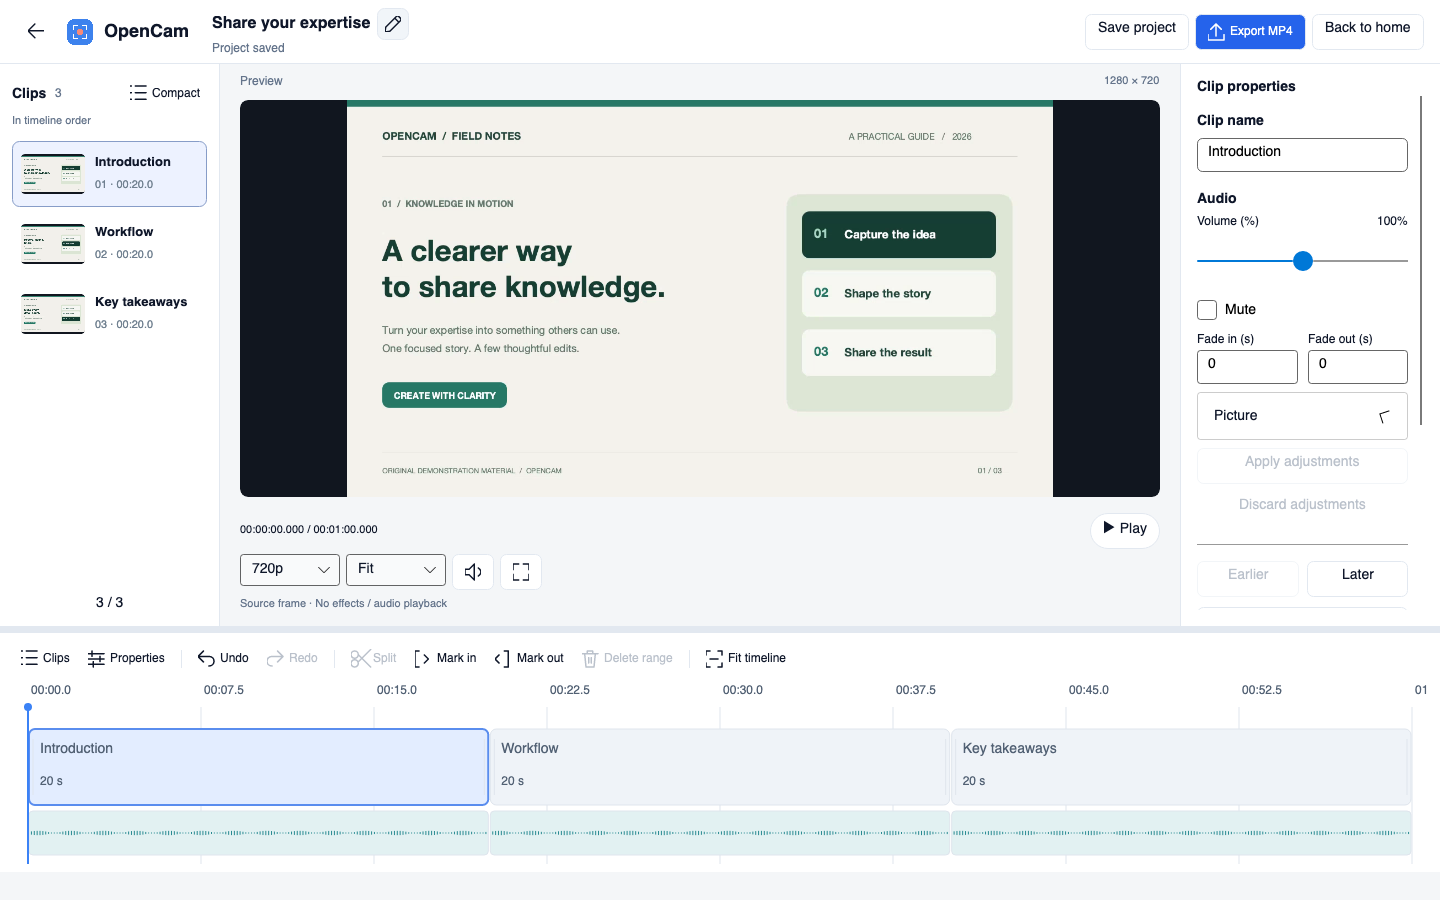
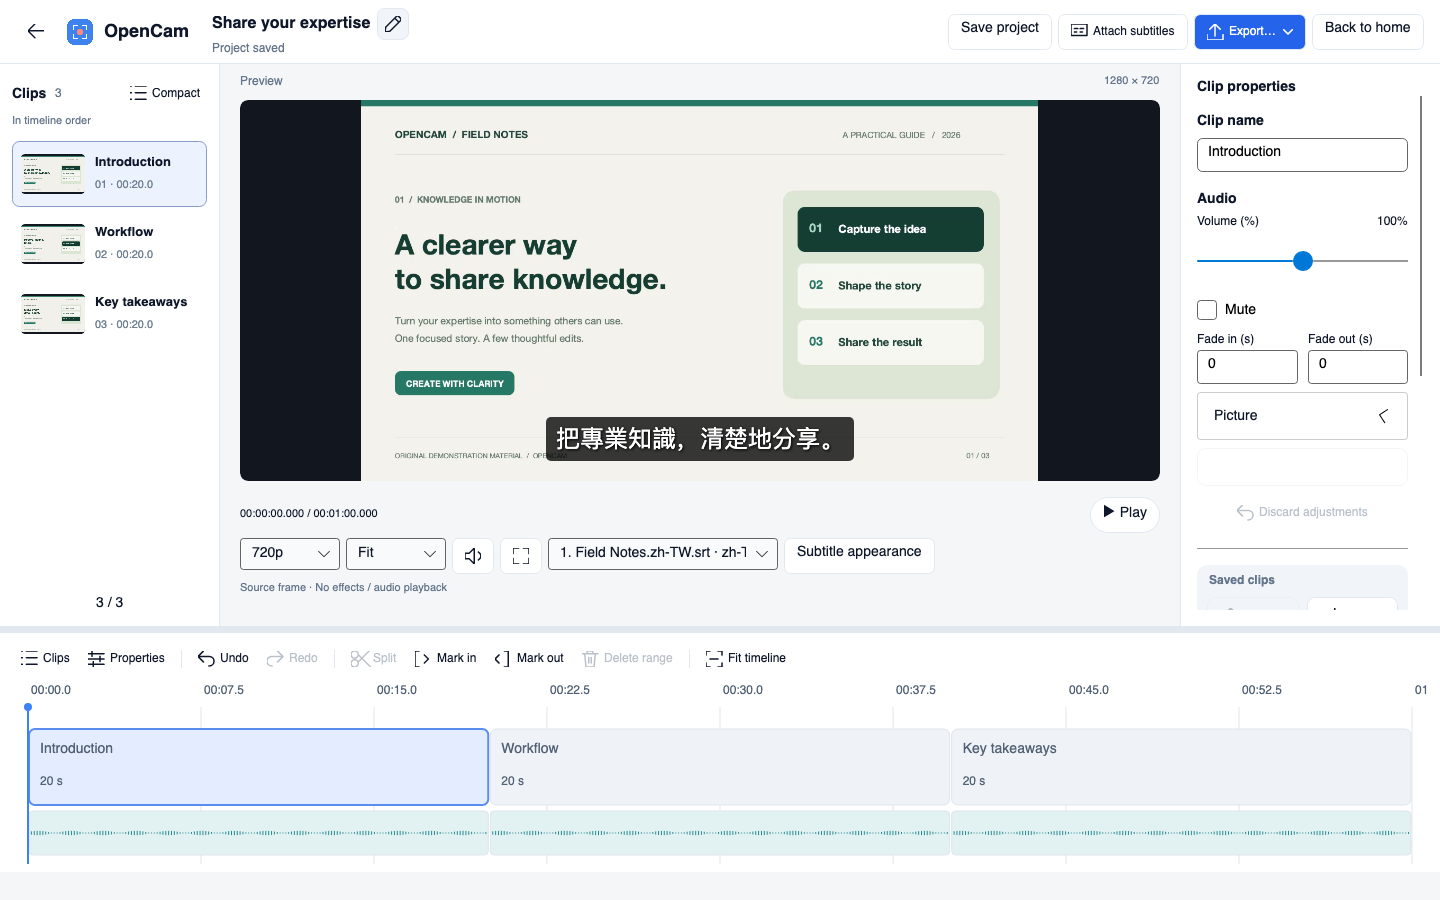
Release OpenCam 0.3.4 subtitles transcripts and refreshed documentation

diff --git a/tests/ScreenRecorder.Media.Tests/ProjectEditorChromeTests.cs b/tests/ScreenRecorder.Media.Tests/ProjectEditorChromeTests.cs
@@ -92,8 +92,10 @@ public sealed class ProjectEditorChromeTests
             var button = window.FindControl<Button>("ExportButton")!;
             var label = button.GetVisualDescendants().OfType<TextBlock>().Single(t => t.Text == vm.Strings["ProjectExportMenu"]);
             Assert.Equal(Avalonia.Media.Colors.White, Assert.IsAssignableFrom<Avalonia.Media.ISolidColorBrush>(label.Foreground).Color);
-            var icon = button.GetVisualDescendants().OfType<Path>().Single();
-            Assert.Equal(Avalonia.Media.Colors.White, Assert.IsAssignableFrom<Avalonia.Media.ISolidColorBrush>(icon.Stroke).Color);
+            var icons = button.GetVisualDescendants().OfType<Path>().ToArray();
+            Assert.NotEmpty(icons);
+            Assert.All(icons, icon => Assert.Equal(Avalonia.Media.Colors.White,
+                Assert.IsAssignableFrom<Avalonia.Media.ISolidColorBrush>(icon.Stroke).Color));
         }
         finally { await window.RequestCloseAsync(); }
     }

diff --git a/docs/releases/v0.3.4.md b/docs/releases/v0.3.4.md
@@ -1,0 +1,38 @@
+# OpenCam v0.3.4 — 多語字幕與逐字稿搜尋 / Multilingual captions and transcript search
+
+## 繁體中文
+
+- 編輯器新增「附加影片字幕」，選取或拖放 SRT／VTT，多語檔案以唯一名稱保存到專案內，同名不覆蓋。語言名稱依中英文介面顯示並附代碼，清單卡片單選預設字幕。
+- 字幕套用進編輯狀態／復原草稿，儲存專案才持久保存；替換與移除保留歷史資產供復原。取消匯入可能留下未引用資產，不冒險刪除復原需要的資料。
+- 一般／全螢幕預覽選擇語言或關閉字幕，大小、配色、背景透明度及位置即時調整；不改專案預設語言，不燒入 MP4。
+- 網頁維持 index.html、media.mp4、opencam-player.js 三檔案，加入預設開啟的多語 CC 控制與純文字字幕。語系選單只顯示名稱及代碼，不帶檔名。
+- 右側「章節／逐字稿」分頁，搜尋字幕、關鍵字標示、點擊跳轉、可選跟隨播放。點擊逐字稿保持原本播放／暫停狀態；搜尋時暫停自動跟隨，固定高度內捲動、分批顯示大量字幕。
+- 裁剪、重排或續錄改變最終時間軸時，需確認字幕同步；網頁輸出可附加、不附加或取消，不自動改寫字幕時間。
+- 命名視窗按鈕置中、輸出箭頭縮小置中、字幕卡片美化與語言完整顯示；網頁章節列緊湊，編號框與內容高度對齊，標題摘要不再重複 OpenCam。
+- README、GitHub Pages 與中英文說明更新，重新產生首頁／設定／編輯器／字幕視窗介面展示，使用自製教學影片與字幕，並非實機驗收證據。無新增應用第三方依賴。
+
+### 相容性與限制
+
+- **保存附加字幕使用專案格式4，v0.3.3及以前不能開啟，請先備份整個專案。** 無字幕專案不因此自動升版。網頁資料格式仍為 opencam.web-player/schemaVersion1，可選字幕資料位於同一 JS 內。
+- 支援 UTF-8及含 BOM 的 UTF-16；最多32軌，每檔10 MiB／100,000則字幕／每則10,000字，網頁解析字幕合計64 MiB上限。純文字呈現，不執行字幕 HTML／樣式指令。匯入內容／來源校驗失敗會拒絕使用。
+- MP4不燒錄字幕；原生畫中畫字幕不在支援範圍。本機瀏覽器保存偏好受儲存政策限制，不保證搬移資料夾／跨瀏覽器後保留。
+- 真實瀏覽器離線／觸控／全螢幕、Windows原生錄影／編輯影音／輸出、長時間A/V、macOS視覺、實際磁碟耗盡及完整實體Release Gate未全部完成。Windows心跳重試／快速輸出偶發回退不能宣稱根治。
+- 安裝包無可信發行者簽章，macOS未公證；Windows FFmpeg完整對應原始碼核對仍待完成。依使用者授權發布，不表示全部可靠性、安全、授權或實機驗收通過。
+
+## English
+
+- Attach SRT/VTT by selection or drop. Unique project-owned copies preserve same-name multilingual assets. Localized language labels include codes; choose the default on a subtitle card.
+- Apply edits drafts; explicit Save persists. Replacement/removal retains assets for undo/recovery; canceled import may leave an unreferenced asset.
+- Preview/fullscreen language/off, size, theme, opacity and position controls are view-only. MP4 has no caption burn-in.
+- Three-file Web packages add default-on multilingual CC controls and safe plain-text cues. Language menus omit filenames.
+- Chapter/transcript tabs offer full-text search, highlighting, seek preserving play/pause, optional following and bounded scrolling with batched rows. Searching suspends automatic following.
+- Timeline changes require subtitle-sync confirmation, omission or cancellation before Web export; cues are not retimed automatically.
+- Center naming-dialog actions, shrink/center export chevrons, improve subtitle cards and compact chapter badges. Refresh bilingual README, Pages and genuine UI renders using original authored tutorial media; no new application dependencies.
+
+### Compatibility and limits
+
+- **Saved subtitles require project format4; v0.3.3 and earlier cannot open them. Back up complete projects first.** Projects without captions retain their schema. Web format remains opencam.web-player/schemaVersion1 with optional caption data in the existing JS.
+- UTF-8/BOM-marked UTF-16;32 tracks maximum,10 MiB/100,000 cues/10,000 characters per cue;64 MiB aggregate parsed Web cues. Render plain text, not executable HTML/styles. Changed/invalid imported assets fail verification.
+- No MP4 burn-in or native PiP captions. Browser storage policies may prevent persistent preferences or carrying them across folder moves/browsers.
+- Real-browser offline/touch/fullscreen, native Windows recording/editor A/V/export, long A/V sync, macOS visuals, physical disk exhaustion and the full physical Release Gate remain incomplete. Intermittent Windows heartbeat/fast-export fallback issues are not claimed resolved.
+- No trusted publisher signing/macOS notarization. Complete corresponding-source verification for Windows FFmpeg remains pending. Publication is user-authorized and does not establish all reliability, security, licensing or device acceptance.

diff --git a/docs/USER_GUIDE.en-US.md b/docs/USER_GUIDE.en-US.md
@@ -1,6 +1,6 @@
 # OpenCam Complete User Guide (English)
 
-Unreleased multilingual captions: attach SRT/VTT files by selection or drag-and-drop in the editor. Unique project-owned copies avoid filename collisions. Choose languages and the default track, apply, then save explicitly. Preview and Web CC controls offer language, size and appearance settings; MP4 captions are not burned in. Timeline edits require a synchronization decision. **Subtitle projects use format4; released0.3.3 cannot open them. Back up first.** See [subtitle limits](WEB_PLAYER_EXPORT.md).
+v0.3.4 multilingual captions: attach SRT/VTT by selection or drop; unique project-owned copies avoid collisions. Language names follow the application language and include codes. Select the default on a subtitle card, apply, then save explicitly. Preview/fullscreen and Web CC controls offer language, size, theme, opacity and position; no MP4 burn-in. The Web sidebar offers searchable transcripts, highlighting, seek preserving play/pause, optional follow mode and bounded scrolling. Timeline edits require synchronization confirmation. **Subtitle projects use format4; released0.3.3 cannot open them. Back up first.** See [subtitle limits](https://github.com/kaoshou/OpenCam/blob/master/docs/WEB_PLAYER_EXPORT.md).
 
 ## New in v0.2.5: experimental Windows capture
 
@@ -12,7 +12,7 @@ Change capture mode only while idle, not while paused. Existing audio/cursor con
 
 OpenCam lets you record, edit, and resume recording. It writes MKV sources, retains them alongside a reopenable editing project, and exports MP4 when needed. Crash Recovery can attempt to preserve successfully written recordings; project recovery drafts protect interrupted unsaved edits.
 
-> This guide covers OpenCam v0.3.3, not a claim of completed acceptance. Windows native recording, editor audiovisual preview, export, and long A/V sync acceptance remain pending. Complete corresponding-source verification for Windows FFmpeg also remains pending, and packages are unsigned. Use disposable media; see the [release notes and limitations](https://github.com/kaoshou/OpenCam/blob/master/docs/releases/v0.3.3.md).
+> This guide covers OpenCam v0.3.4, not a claim of completed acceptance. Windows native recording, editor audiovisual preview, export, and long A/V sync acceptance remain pending. Complete corresponding-source verification for Windows FFmpeg also remains pending, and packages are unsigned. Use disposable media; see the [release notes and limitations](https://github.com/kaoshou/OpenCam/blob/master/docs/releases/v0.3.4.md).
 
 v0.3.3 replaces manual export with an **Export…** menu offering MP4 video or Web player. MP4 accepts a filename; Web player creates a unique folder containing index.html, media.mp4 and opencam-player.js. Chapters follow saved clips and show start times and durations in a scrollable index. Overlay controls provide seeking, volume, speed, wide-screen and fullscreen. Move the complete folder together and use an H.264/AAC-capable browser. See [the web export format](https://github.com/kaoshou/OpenCam/blob/master/docs/WEB_PLAYER_EXPORT.md).
 
@@ -39,11 +39,12 @@ See the [README](../README.md) for Windows portable testing instructions. Start 
 - Explicit Save commits the editing version. A recovery draft protects interrupted edits; it is not a saved version or an updated MP4. Switching/closing with unsaved changes offers Save, Discard or Cancel. Reopening a recoverable draft offers a restore decision.
 - Resolve unsaved changes when prompted before manual export. If the same content has a verified existing output, choose Open Existing, Export Again or Cancel. Export has progress and cancellation controls; cancellation/failure preserves source media.
 
-These are offline renders of the current v0.3.0 UI with illustrative state and an authored demonstration video in the editor, not device-recording acceptance evidence. Select an image for full size.
+These are offline renders of the current v0.3.4 UI with illustrative state and an authored demonstration video/subtitles in the editor, not device-recording acceptance evidence. Select an image for full size.
 
 [![Recording home](images/preview_main_enus.png)](images/preview_main_enus.png)
 [![Preferences](images/preview_settings_enus.png)](images/preview_settings_enus.png)
 [![Recording editor](images/preview_editor_enus.png)](images/preview_editor_enus.png)
+[![Multilingual subtitle manager](images/preview_subtitles_enus.png)](images/preview_subtitles_enus.png)
 
 ## 1. System Requirements and First Launch
 

diff --git a/docs/WEB_PLAYER_EXPORT.md b/docs/WEB_PLAYER_EXPORT.md
@@ -30,7 +30,7 @@ window.OpenCamPlayerData = {
   "schemaVersion": 1,
   "generator": {
     "name": "OpenCam",
-    "version": "0.3.3",
+    "version": "0.3.4",
     "projectUrl": "https://github.com/kaoshou/OpenCam"
   },
   "entry": "index.html",
@@ -42,13 +42,13 @@ window.OpenCamPlayerData = {
 };
 ```
 
-外部工具應檢查固定檔名、`format` 及支援的 `schemaVersion`，並確認 index.html／media.mp4 存在。`generator.version` 是產出程式版本，不是檔案格式版本；範例的 0.3.3 僅表示目前來源版本。
+外部工具應檢查固定檔名、`format` 及支援的 `schemaVersion`，並確認 index.html／media.mp4 存在。`generator.version` 是產出程式版本，不是檔案格式版本；範例的 0.3.4 僅表示目前來源版本。
 
 讀取時只擷取 `window.OpenCamPlayerData =` 後的 JSON 資料、移除最後的分號，以 JSON parser 解析。不要以 eval 執行來路不明的 JS；實際產生器只輸出嚴格 JSON 指派，不含額外程式。名稱含 HTML／JS 特殊字元時以安全 JSON 編碼保存。
 
 輸出沿用原 MP4 的驗證與快速／精剪選擇，不因網頁格式額外編碼第二次。完成影片與 JS 後才發布入口頁面；取消／失敗清理本次已知檔案，可能留下空的獨立資料夾，既有輸出與原始素材保留。
 
-## 多語字幕（尚未發布的開發功能）
+## 多語字幕（v0.3.4）
 
 編輯器「附加影片字幕」可選取或拖放 SRT／VTT。依檔名判斷 zh-TW、en、ko 等語言，無法判斷時先使用繁體中文（台灣），可手動更改。預設字幕優先繁體中文；沒有該軌時使用第一軌並提示，也可在字幕卡片勾選「設為預設」（單選），不使用上方下拉選單。相同語言可替換或保留多軌。
 
@@ -74,6 +74,6 @@ Move the entire folder or upload it to a static site. Playback uses local files 
 
 External tools should verify `opencam-player.js`, `format: "opencam.web-player"`, supported `schemaVersion`, and the entry/media files. Parse the strict JSON assignment without evaluating JavaScript. Generator version and schema version are independent. Original MKV media and existing packages are never overwritten.
 
-Unreleased subtitle support: select or drop SRT/VTT files in the editor, choose inferred/manual languages and the default track. Unique project-owned paths prevent identical filenames from overwriting each other. Apply edits the draft; save is explicit. Saving subtitles upgrades project format to4, which released0.3.3 cannot open: back up first. Preview/fullscreen language and appearance choices do not change the authored default. Timeline changes require a subtitle-sync decision before web export; no automatic retiming or MP4 burn-in occurs. Optional subtitle data is embedded in `opencam-player.js`; the package still has three files. Native picture-in-picture captions are not supported. Offline browser, touch and Windows-native visual validation remain manual.
+v0.3.4 subtitle support: select or drop SRT/VTT files in the editor, choose inferred/manual languages and the default track. Unique project-owned paths prevent identical filenames from overwriting each other. Apply edits the draft; save is explicit. Saving subtitles upgrades project format to4, which released0.3.3 cannot open: back up first. Preview/fullscreen language and appearance choices do not change the authored default. Timeline changes require a subtitle-sync decision before web export; no automatic retiming or MP4 burn-in occurs. Optional subtitle data is embedded in `opencam-player.js`; the package still has three files. Native picture-in-picture captions are not supported. Offline browser, touch and Windows-native visual validation remain manual.
 
 Choose the default using the radio control on each subtitle card. The Web sidebar now switches between chapters and transcript, with independent transcript language, case-insensitive plain-text search, keyword highlighting and click-to-seek preserving play/pause state. Follow-playback is optional and suspended during search. Rows render in batches of100 inside a scrolling panel; no transcription service or additional package files are required.

diff --git a/docs/verification/2026-10-13-v034-release-preparation.md b/docs/verification/2026-10-13-v034-release-preparation.md
@@ -1,0 +1,19 @@
+# OpenCam0.3.4 release preparation
+
+User authorized version increment, bilingual README/Pages refresh, regenerated screenshots, push and Release. Canonical VERSION changed0.3.3→0.3.4. Existing original repository dirty spec and five untracked plans were preserved; feature work stayed in focused-editor-revision.
+
+## Evidence
+
+- Final local Release tests: Core230 passed, Media725 passed/20 skipped/0 failed (`/tmp/opencam-v034-full-final.log`), .NET SDK8.0.425, FFmpeg7.1.2.
+- Initial full run had one stale ExportLabelAndIconUseWhiteAgainstBlueBackground locator using Path.Single after adding the arrow. Changed to require at least one icon and assert every icon remains white; label-color assertion unchanged.37 related UI tests passed, then full regression passed. No production behavior or acceptance tolerance was relaxed.
+- Website30/30 and player23/23 passed; static site build, version consistency and diff whitespace checks passed. Website's initial Swift icon test hit a sandbox cache permission error; rerun used isolated temporary cache without skipping it. Guide's unsupported relative Web-player-doc link was replaced with the public repository URL.
+- Regenerated bilingual home840×820, editor1440×900, settings650×820 and subtitles780×620 using latest UI assemblies, actual App/Fluent styles, original Field Notes tutorial media, synthetic audio and bilingual captions. Screenshot fixture: `/tmp/opencam-v034-preview.CXfJFi`. Settings renders can be byte-identical because the shown preferences view is unchanged. Metadata explicitly marks illustrative state and no device-acceptance evidence.
+- Browser policy rejected local file:// Web screenshot access. User explicitly chose not to include Web-player pictures this release. No alternate browser/screenshot workaround or private desktop/chat capture was used. Web features are documented normally.
+
+## Publishing procedure
+
+Use master Actions artifacts only after all five verify/build jobs succeed, publish-release is skipped and matching website deployment succeeds. Verify run/artifact head SHA, nonexpired/nonempty files, portable ZIP/app/source data, Setup PE and macOS DMG integrity. Draft first, upload and verify three expected0.3.4 assets, then publish and recheck target tag, release state, sizes/digests. Do not overwrite another commit's existing tag/Release; do not substitute local DMGs.
+
+## Pending limitations
+
+Preserve schema4 subtitle-project warning (v0.3.3 and earlier cannot open saved subtitles), original media retention and no automatic cue retiming. Actual offline-browser/touch/fullscreen, Windows-native and long-A/V, macOS visuals, physical disk exhaustion, complete physical Release Gate, trusted signing/notarization and Windows FFmpeg corresponding-source verification remain incomplete. Intermittent Windows heartbeat/fast-export fallback root causes are not claimed fully fixed. User-authorized publication is not a declaration that these gates passed.
